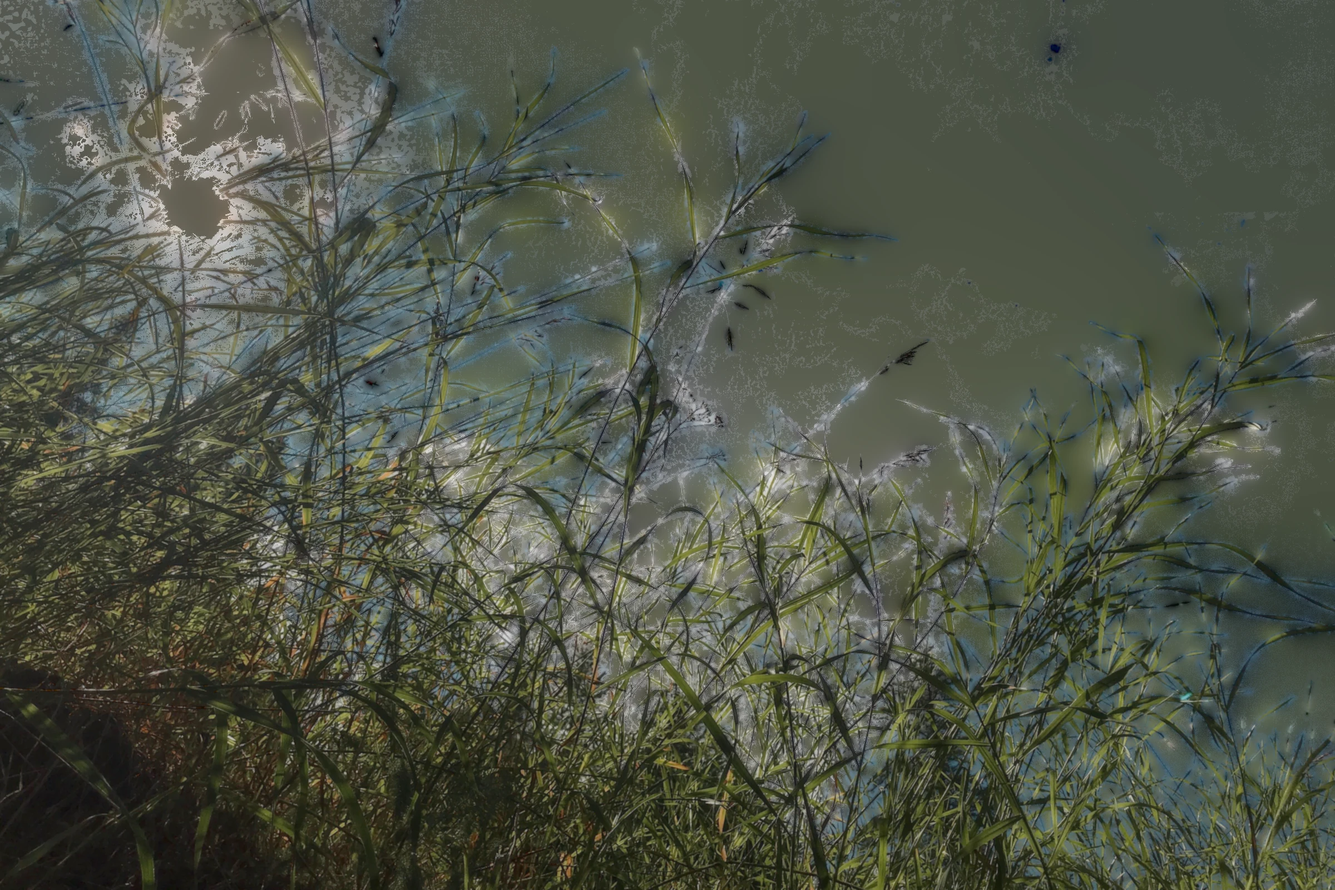
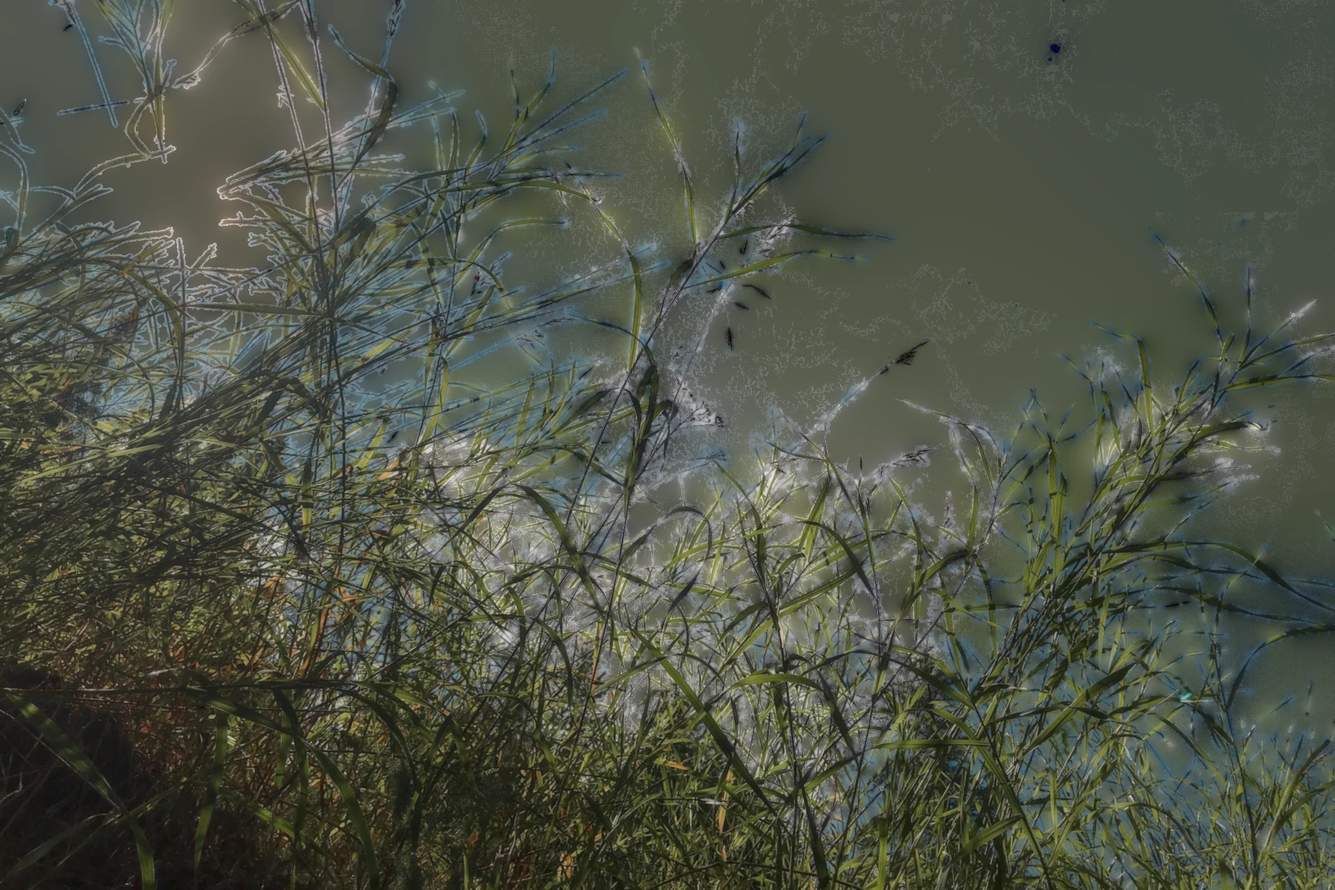
Lab: climb kaze round 2
Claude-Session: https://claude.ai/code/session_01RqENhngNCzDFmJWDZueXGV

diff --git a/tools/depth/bakes/kaze/bake.py b/tools/depth/bakes/kaze/bake.py
@@ -70,6 +70,15 @@ def rgb_of(h, s, v):
     return cv2.cvtColor(np.dstack([h % 360, np.clip(s, 0, 1), np.clip(v, 0, 1)]).astype(np.float32), cv2.COLOR_HSV2RGB)
 
 
+def line(n, th):
+    """A one-pixel line n long (odd) at angle th, as a structuring element."""
+    k = np.zeros((n, n), np.uint8)
+    c = n // 2
+    dx, dy = c * np.cos(th), c * np.sin(th)
+    cv2.line(k, (int(round(c - dx)), int(round(c - dy))), (int(round(c + dx)), int(round(c + dy))), 1, 1)
+    return k
+
+
 def declarity(c, sigma, keep):
     """Take local contrast back out: log luma's departure from its own blur
     is scaled to `keep`, the colour ratio carried along."""
@@ -245,14 +254,60 @@ an = np.maximum(an, force)
 cloudish = kit.smoothstep(0.35, 0.55, YL) * (1 - kit.smoothstep(0.04, 0.1, dks)) * (1 - kit.smoothstep(0.02, 0.06, gr))
 cloudish = cloudish * (1 - force) * (1 - hz[..., 0])
 an = an * (1 - 0.9 * cloudish)
-# In the glare, the loose flecks the flare detector found (a few pixels of
-# seed or awn on their own) read as dust on the print, not as grass: they go
-# to the sky, where the closing has already lifted them out.
-n, lab, stats, _ = cv2.connectedComponentsWithStats((an > 0.3).astype(np.uint8), connectivity=8)
-fleck = ((stats[:, cv2.CC_STAT_AREA] < 60) & (np.arange(n) > 0))[lab]
-an = np.where(fleck & (hz[..., 0] > 0.5), 0, an)
 # a whisker of erosion: the outermost, faintest edge goes to the sky
 an = np.clip((an - 0.03) / 0.97, 0, 1)
+
+# ---- the sun's halo: whole stalks or nothing ----
+# Against the flare a blade is either one continuous dark silhouette or gone.
+# The loose seeds, awns and broken lengths of stalk the matte found there
+# (their pedicels washed out by the glare) read as dust on the scan, not as
+# backlit grass: only a piece that is long, or that runs out of the halo into
+# a real stalk, stays; the rest goes to the sky, which is the clean fill there.
+hzm = hz[..., 0] > 0.3
+n, lab, stats, _ = cv2.connectedComponentsWithStats((an > 0.3).astype(np.uint8), connectivity=8)
+joined = np.bincount(lab[~hzm], minlength=n) > 0
+keep = (stats[:, cv2.CC_STAT_AREA] >= 800) | joined
+keep[0] = False
+kept = keep[lab]
+# (their faint rims go with them: nothing in the halo but what is near a stalk)
+an = an * (1 - hz[..., 0] * ~kit.dilate(kept, 3))
+# The kept stalks' own gaps (where the glare ate a length of one) are bridged
+# along the stalk: a closing with a thin line at eight angles. Each angle
+# closes only what runs that way (the opening by the same line first), so two
+# collinear lengths of one stalk join, and two blades lying side by side, or
+# crossing, are never webbed together. Over the sun they stand solid.
+km = kept.astype(np.uint8)
+bridge = np.zeros_like(kept)
+for i in range(8):
+    k = line(15, i * np.pi / 8)
+    add = cv2.morphologyEx(cv2.morphologyEx(km, cv2.MORPH_OPEN, k), cv2.MORPH_CLOSE, k) & (1 - km)
+    # (a bridge is a stalk's width, no wider: what the closing filled broader
+    # than that, across the line, is the wedge between two converging blades)
+    wide = cv2.morphologyEx(add, cv2.MORPH_OPEN, line(7, i * np.pi / 8 + np.pi / 2))
+    bridge |= (add > 0) & ~kit.dilate(wide > 0, 1)
+# (and it has to be in the photo: a line however faint, darker than what is
+# either side of it, or on the disc itself, where the stalk is washed out
+# entirely)
+ev = (dks > 0.03) | (rr < 0.06 * W)
+# (only for a stalk out on its own across the glare: in the mat the gaps
+# between blades are sky, not a stalk's lost length)
+ev &= kit.blur(km.astype(np.float32), 12) < 0.4
+# the stalks' bodies and the bridges come up solid; their soft edges stay
+whole = (bridge & ev | kept & (an > 0.5)) & hzm
+floor = 0.9 * kit.blur(whole.astype(np.float32), 0.7) * hz[..., 0]
+grown = (floor > an + 0.2) & (an < 0.6)
+an = np.maximum(an, floor)
+# the bridged lengths take the colour of the stalk either side of them
+Fk = kit.pushpull(F, (kept & (an > 0.6) & ~grown).astype(np.float32))
+F = np.where(grown[..., None], Fk, F)
+# The sky in the halo. The closings above go grey there: every seed they lift
+# leaves a blot of the cloud's darker texture behind it, and the flare came
+# out mottled grey-blue and posterised. (They stay what the coverage was
+# solved against, which needs the sky the photo had right behind each blade.)
+# What shows is the smooth fill instead (from the sky the matte was sure of,
+# which never held a seed or awn, so the dropped flecks leave nothing behind),
+# softened, so the flare is one clean warm gradient under the stalks.
+S = S * (1 - hz) + kit.blur(P, 6) * hz
 a = an
 s = 1 - a
 
